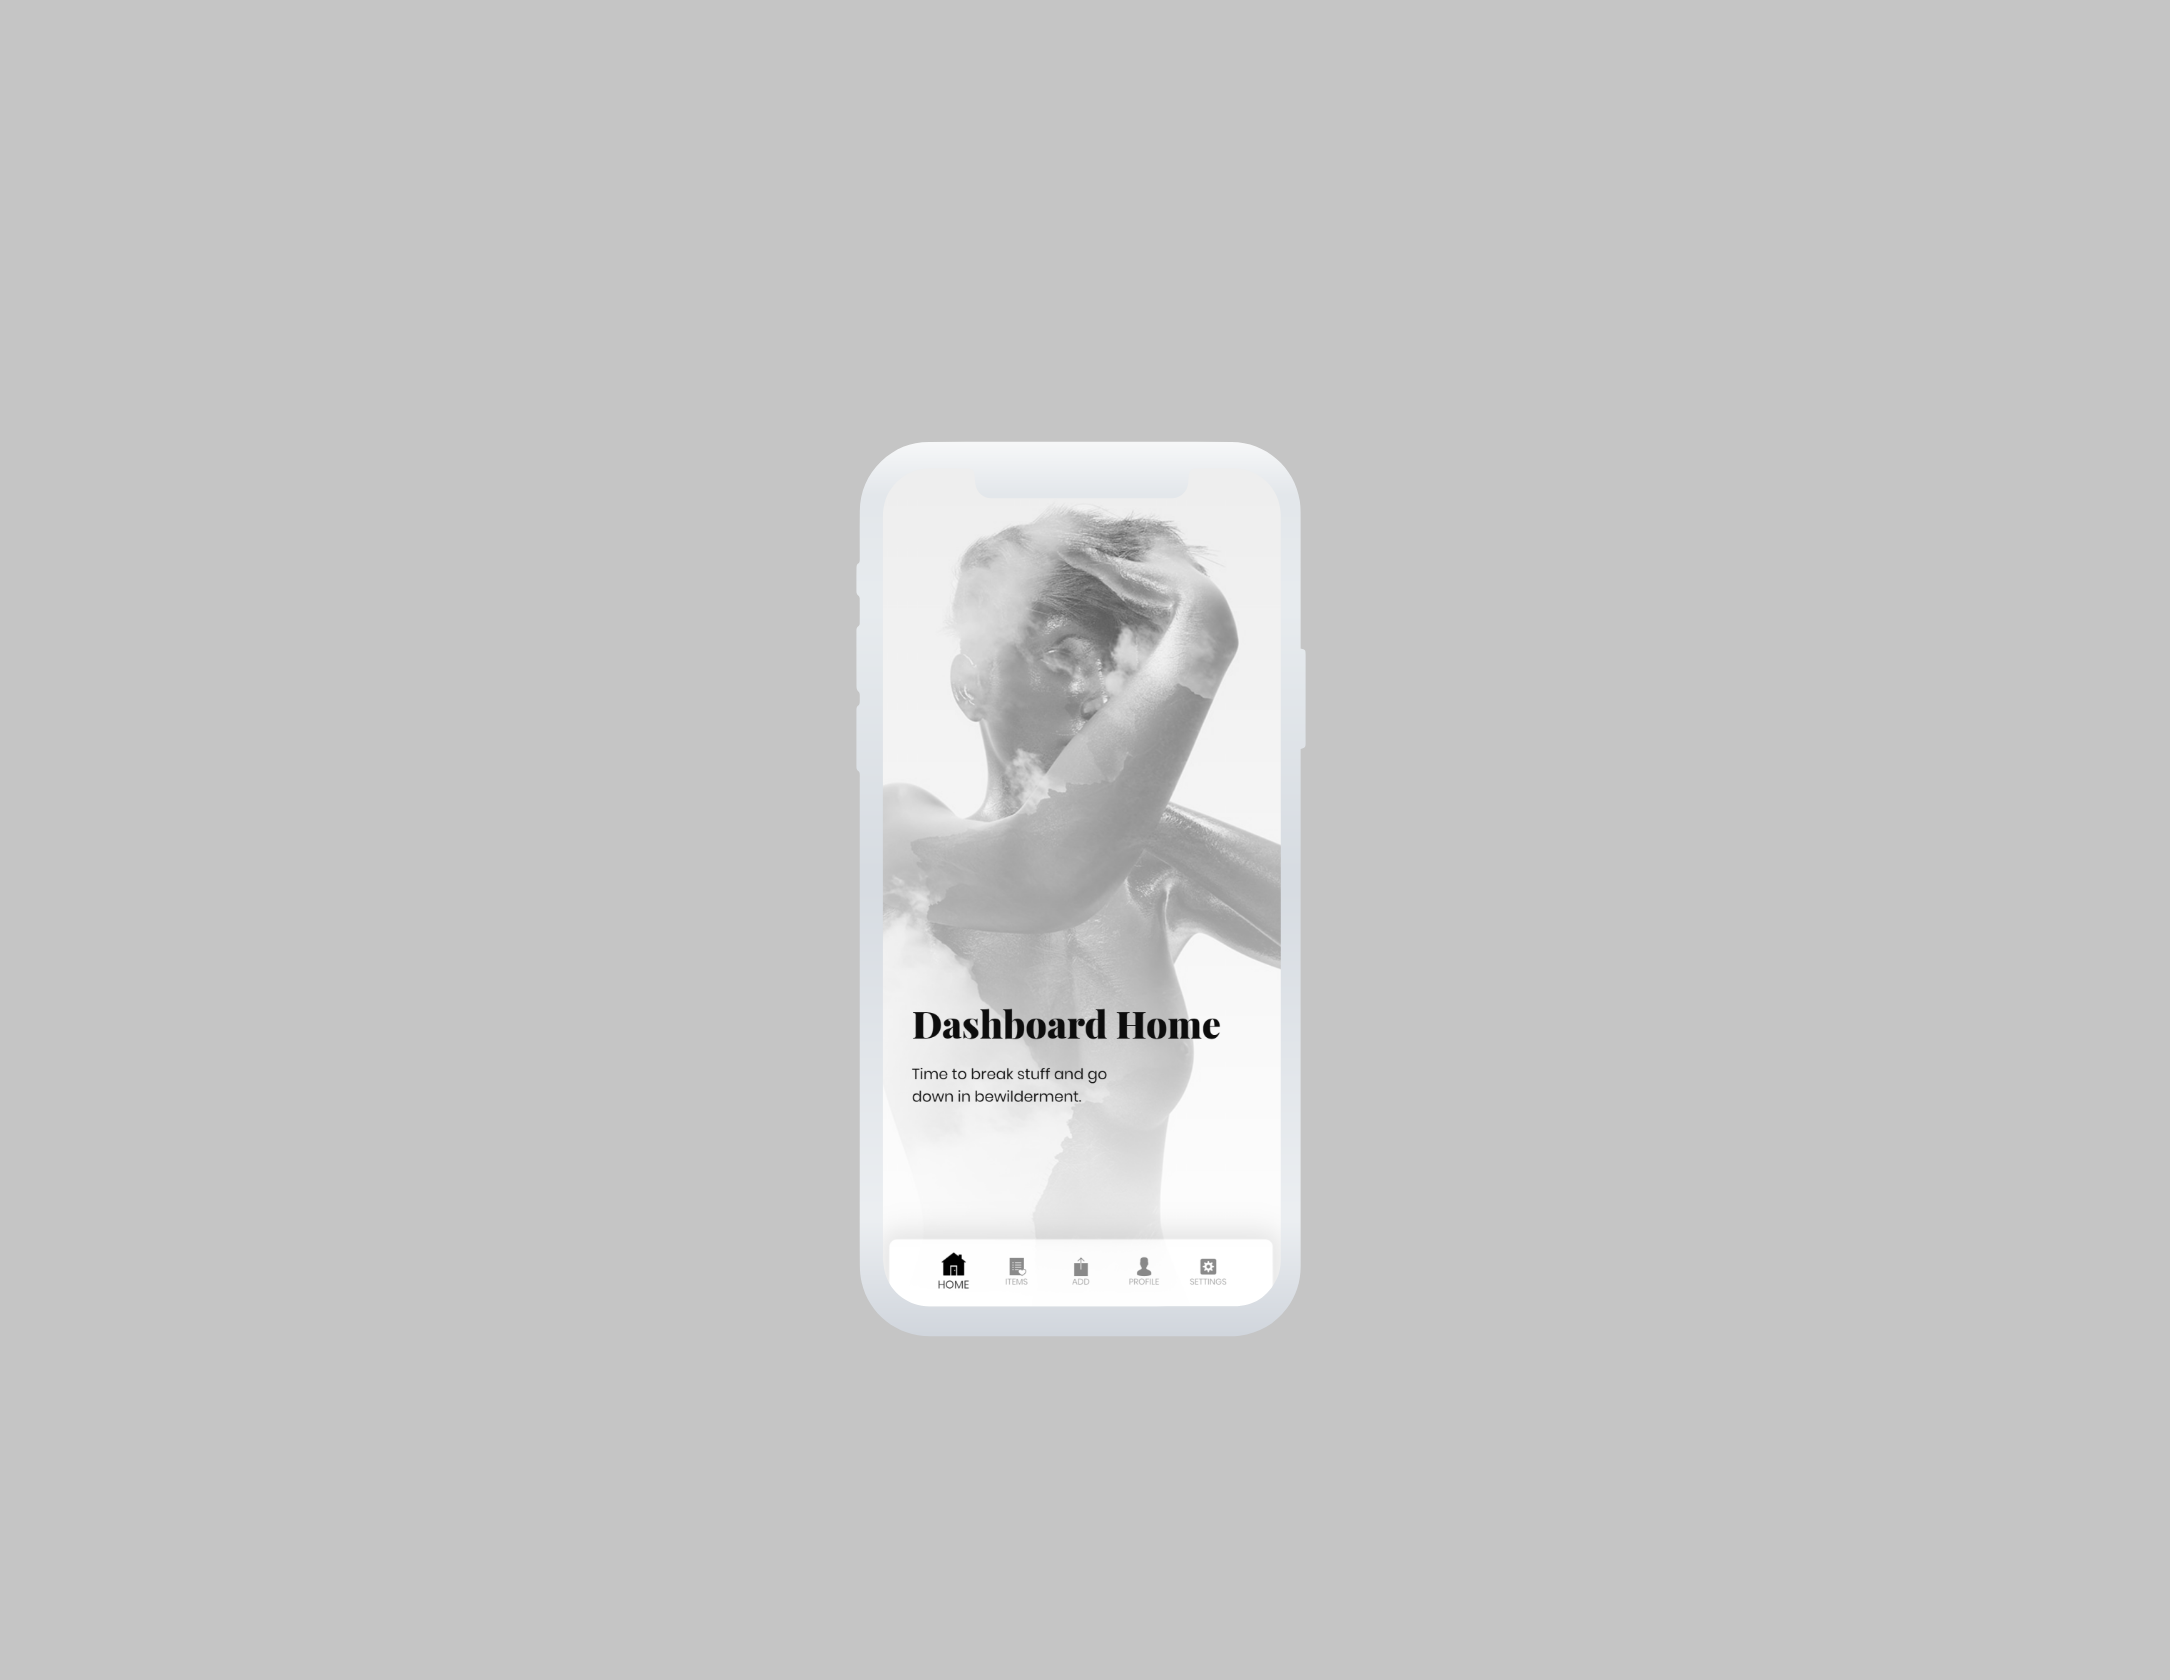
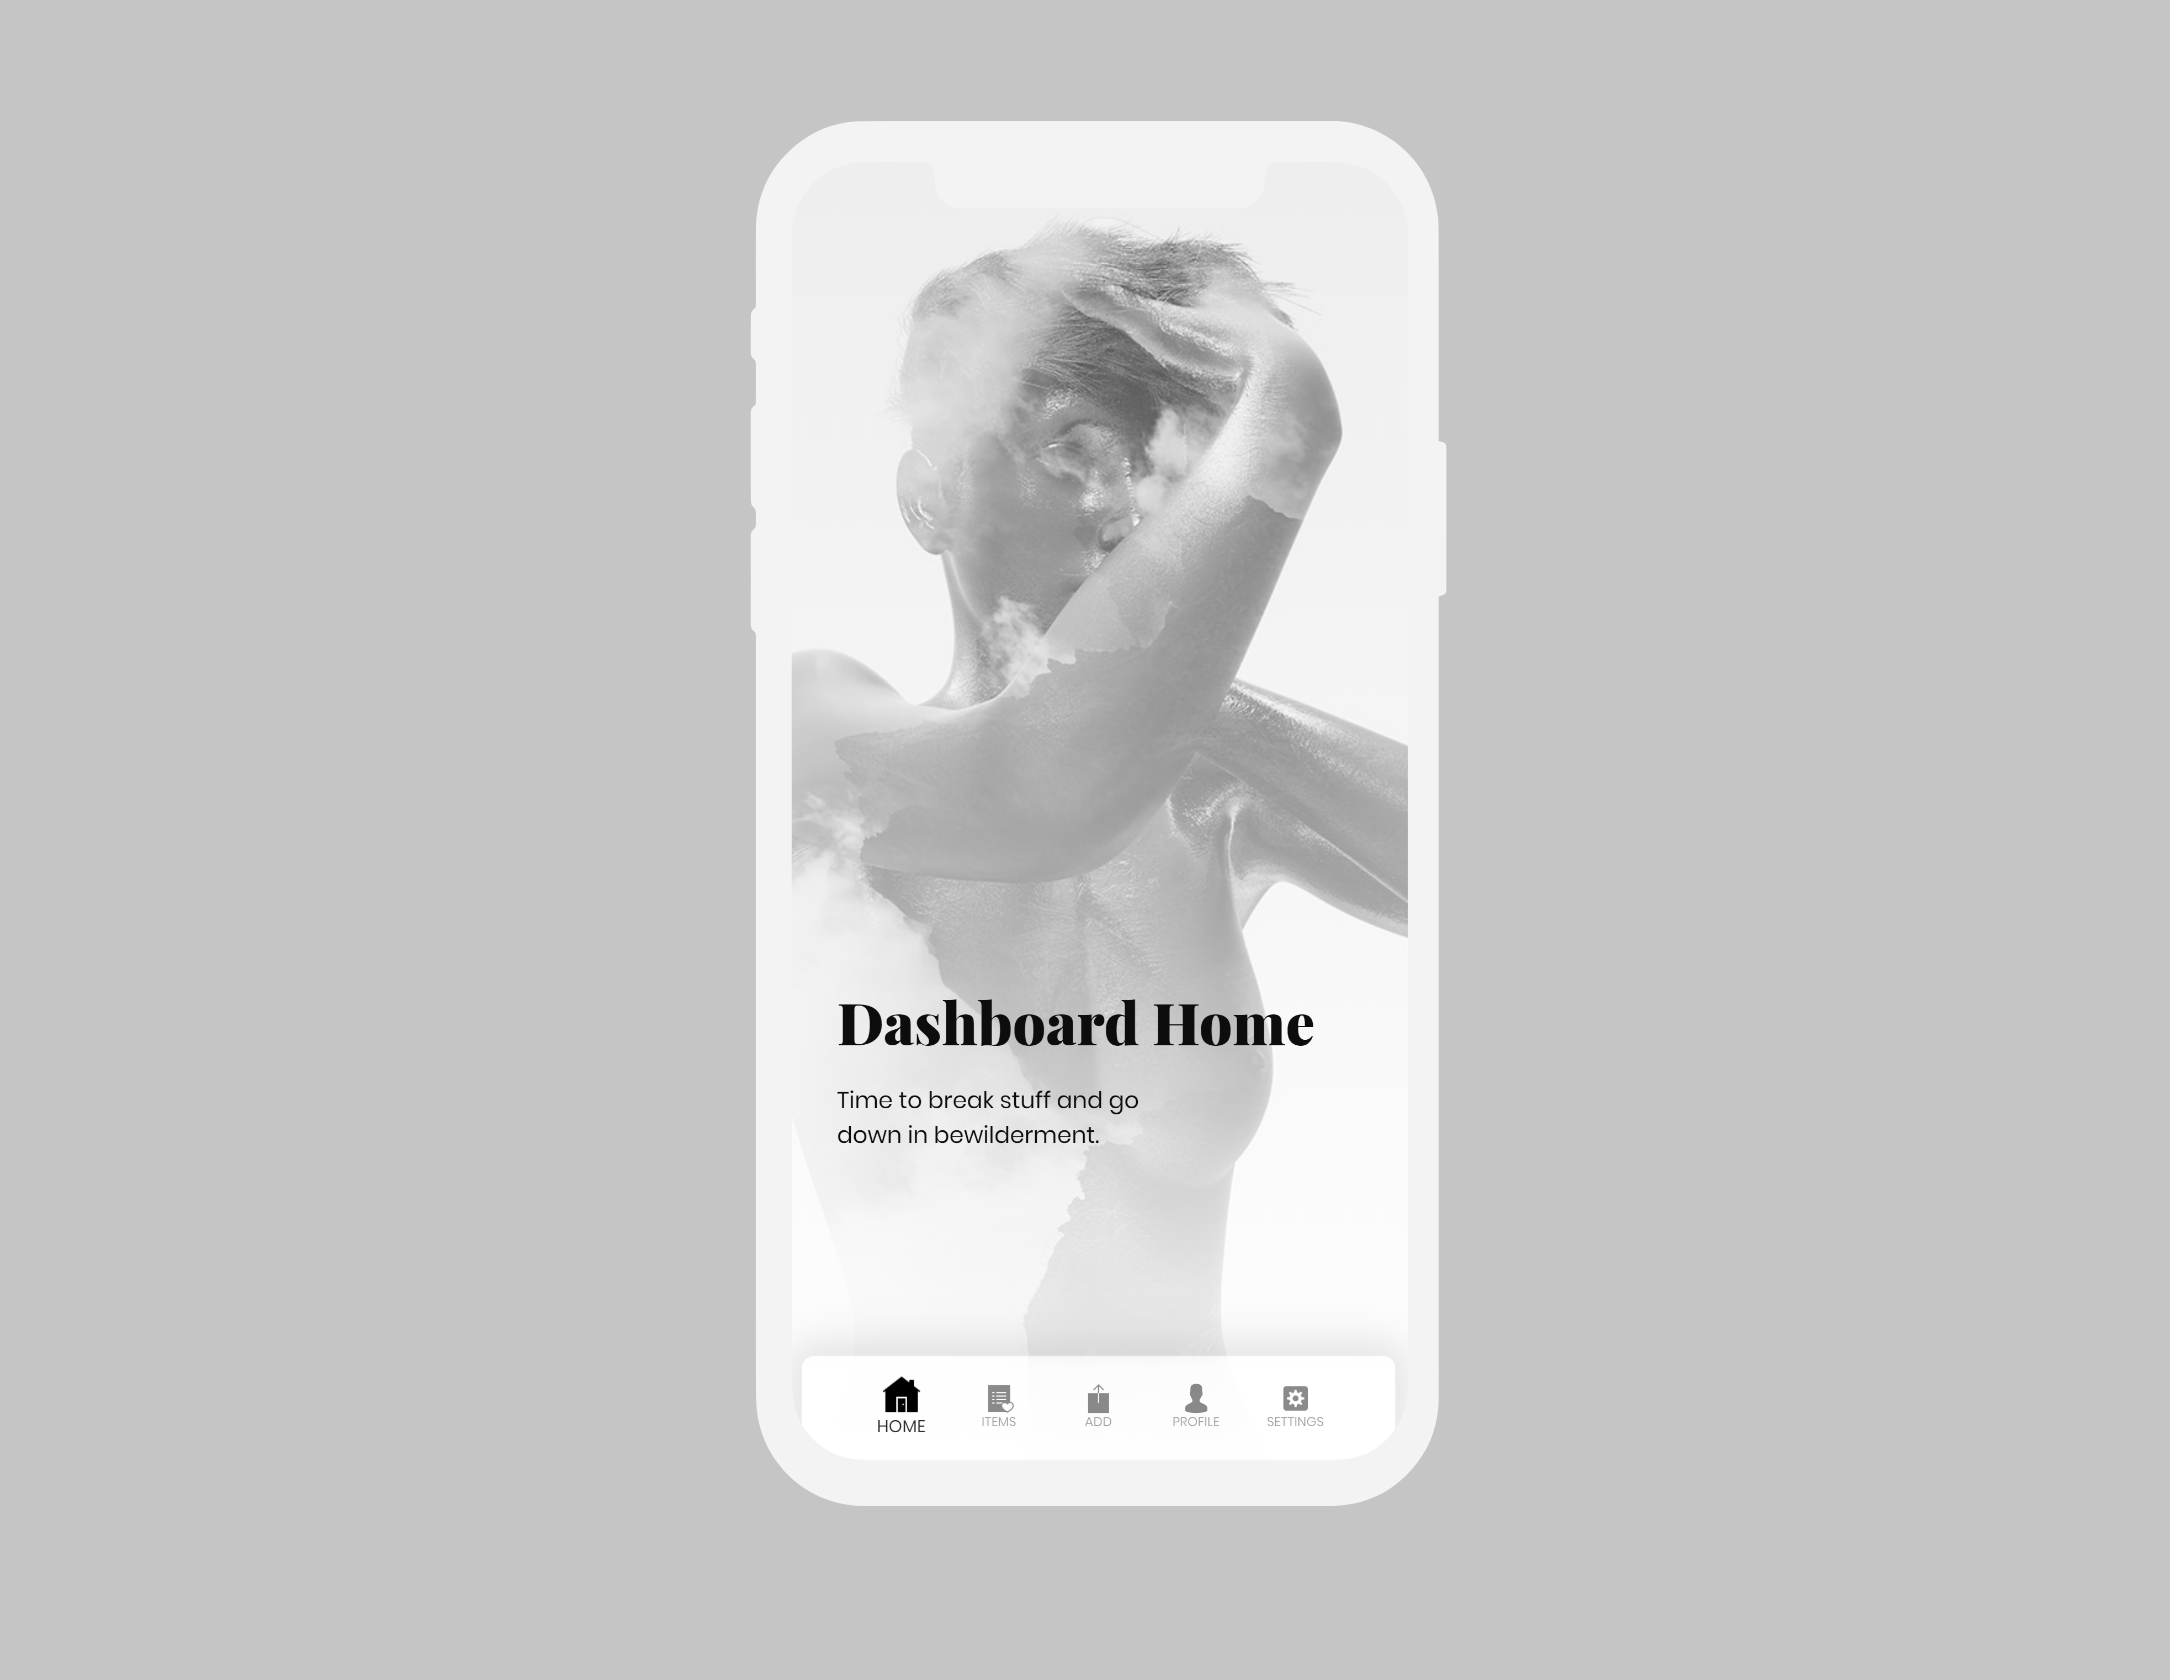
done.

Changed region(s): [[0.3396, 0.0619, 0.6793, 0.8976]]

diff --git a/Assets/scripts/index.js b/Assets/scripts/index.js
@@ -122,12 +122,31 @@ const preview = document.querySelector("#proj-preview");
 const projects_lis = document.querySelectorAll("li.list__item");
 
 const sources = [
-  { color: "gold", src: "https://project.swss.now.sh" },
-  { color: "navy", src: "https://project.swss.now.sh" },
-  { color: "powderblue", src: "https://project.swss.now.sh" },
-  { color: "yellow", src: "https://project.swss.now.sh" },
-  { color: "black", src: "https://project.swss.now.sh" },
-  { color: "pink", src: "https://project.swss.now.sh" }
+  {
+    color: "navy",
+    src:
+      "https://res.cloudinary.com/swssr/image/upload/v1567123286/swssr/pxjecd7m8gophuukm4v5.png"
+  },
+  {
+    color: "powderblue",
+    src:
+      "https://res.cloudinary.com/swssr/image/upload/v1567122111/swssr/dixmw6phrrmxzrvhvcvr.png"
+  },
+  {
+    color: "yellow",
+    src:
+      "https://res.cloudinary.com/swssr/image/upload/v1567120787/swssr/sdp7tyajnxgsomj45p2b.png"
+  },
+  {
+    color: "black",
+    src:
+      "https://res.cloudinary.com/swssr/image/upload/v1567119024/swssr/v3edsityrdc6wlyng0oh.png"
+  },
+  {
+    color: "pink",
+    src:
+      "https://res.cloudinary.com/swssr/image/upload/v1567119024/swssr/zjfedfxofdrwkvtlvakp.png"
+  }
 ];
 
 //Default bg

diff --git a/index.html b/index.html
@@ -134,7 +134,7 @@
           <li class="list__item">
             <h2 class="item__name with-line">MERIT BRANDING</h2>
             <div class="item__subtext">Landing page</div>
-            <a href="https://melii.now.sh" class="link link--ext" target="_blank" rel="noopener">VISIT</a>
+            <a href="https://meritbranding.co.za" class="link link--ext" target="_blank" rel="noopener">VISIT</a>
           </li>
           <li class="list__item">
             <h2 class="item__name with-line">RAINCHECK</h2>
@@ -382,7 +382,7 @@
     const imgs = document.querySelectorAll(".img");
     const review_imgs = document.querySelectorAll(".entry");
 
-    imgs.forEach(img => imgIO.observe(img.parentNode));
+    imgs.forEach(img => imgIO.observe(img));
   </script>
   <!-- <script src="https://cdnjs.cloudflare.com/ajax/libs/pixi.js/4.5.1/pixi.min.js"></script>
     <script src="https://cdnjs.cloudflare.com/ajax/libs/gsap/2.1.3/TweenMax.min.js"></script>

diff --git a/Assets/styles/main.css b/Assets/styles/main.css
@@ -106,8 +106,8 @@ body {
   z-index: -1;
 }
 .preview {
-  filter: grayscale(1) blur(1px);
-  opacity: 0.56;
+  filter: grayscale(1);
+  opacity: 0.86;
   background-color: transparent !important;
   height: 80vh;
 }
